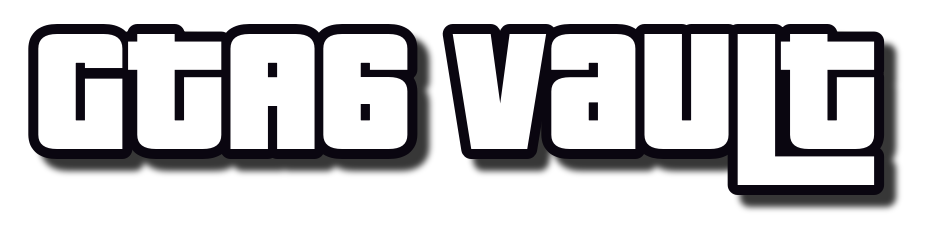
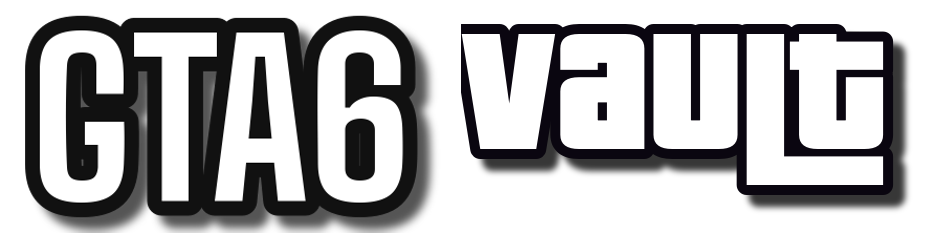
GTA6 vault: step-by-step copy, alert step, more legible GTA6 title

diff --git a/src/components/hot-vault-card.tsx b/src/components/hot-vault-card.tsx
@@ -42,7 +42,7 @@ export function HotVaultCard({ vault, owned, ownedLink, hasPosition, depositDisa
   const total = buys != null && sells != null ? buys + sells : null;
   const buyPct = total ? Math.round((buys! / total) * 100) : null;
   const ch = s.data?.change24h ?? null;
-  const steps = [["💵", "Depositas"], ["🌱", "Cosechas comisiones"], ["📲", "Rebalanceas con 1 toque"]] as const;
+  const steps = [["💵", "Depositas"], ["📲", "Alerta al móvil"], ["🎯", "Rebalanceas con 1 toque"]] as const;
   return <article className="hot-ring rounded-2xl p-[2px] shadow-[var(--shadow-hot)] md:col-span-2">
     <div className="relative isolate flex h-full flex-col overflow-hidden rounded-[calc(1rem-2px)] bg-[image:var(--gradient-hot-surface)] p-4 text-hot-foreground sm:p-5">
       <div className="relative -mx-4 -mt-4 flex min-h-32 flex-col justify-between bg-[image:var(--gradient-hot)] p-4 sm:-mx-5 sm:-mt-5 sm:min-h-36 sm:p-5">
@@ -51,12 +51,12 @@ export function HotVaultCard({ vault, owned, ownedLink, hasPosition, depositDisa
           <span className="rounded-full bg-hot-surface px-3 py-1 text-xs font-black uppercase tracking-wide text-hot-foreground">🎰 {t("Sé la casa")}</span>
           <span className="flex items-center gap-1.5 rounded-full bg-hot-surface/70 px-2.5 py-1 text-[11px] font-bold uppercase"><span className="h-1.5 w-1.5 animate-pulse rounded-full bg-hot motion-reduce:animate-none" />{t("En vivo")}</span>
         </div>
-        <h3 className="relative mt-5 flex items-center gap-2"><img src={lang === "en" ? titleEn : titleEs} alt={t(vault.name)} width={lang === "en" ? 926 : 1059} height={lang === "en" ? 233 : 228} className="h-10 w-auto max-w-[78%] -rotate-2 sm:h-14" /></h3>
+        <h3 className="relative mt-5 flex items-center gap-2"><img src={lang === "en" ? titleEn : titleEs} alt={t(vault.name)} width={lang === "en" ? 935 : 1074} height={lang === "en" ? 233 : 228} className="h-10 w-auto max-w-[78%] -rotate-2 sm:h-14" /></h3>
       </div>
       <div className="mt-4 flex flex-wrap items-end justify-between gap-3">
         <div className="min-w-0">
           <p className="text-xs font-semibold text-hot-muted">{vault.pair}</p>
-          <p className="mt-1 max-w-sm text-sm font-semibold">{t("Cada intercambio de GTA6 deja comisión. Tú cobras como la casa.")}</p>
+          <p className="mt-1 max-w-sm text-sm font-semibold">{t("Deposita, recibe la alerta en Telegram y rebalancea con 1 botón para mantener tu capital concentrado donde más comisiones se cobran.")}</p>
         </div>
         <div className="text-right">
           <p key={apr ?? "x"} className="animate-count-pop bg-[image:var(--gradient-hot)] bg-clip-text font-display text-5xl font-black leading-none text-transparent tabular-nums">{apr == null ? "—" : `${apr.toLocaleString("es-MX", { maximumFractionDigits: 0 })}%`}</p>

diff --git a/src/i18n/en/range-vaults.ts b/src/i18n/en/range-vaults.ts
@@ -6,7 +6,8 @@ export const rangeVaults: Record<string, string> = {
   "Depositas": "You deposit",
   "Cosechas comisiones": "You harvest fees",
   "Rebalanceas con 1 toque": "Rebalance in 1 tap",
-  "Cada intercambio de GTA6 deja comisión. Tú cobras como la casa.": "Every GTA6 trade leaves a fee. You collect like the house.",
+  "Deposita, recibe la alerta en Telegram y rebalancea con 1 botón para mantener tu capital concentrado donde más comisiones se cobran.": "Deposit, get the Telegram alert and rebalance with 1 button to keep your money concentrated where most fees are earned.",
+  "Alerta al móvil": "Alert on your phone",
   "Poseedores": "Holders",
   "No apuestas contra nadie: cobras comisiones de los intercambios. Tu saldo sube y baja con el precio de GTA6. Sin vínculo con Rockstar Games.": "You don't bet against anyone: you collect trading fees. Your balance moves up and down with the GTA6 price. Not affiliated with Rockstar Games.",
   "⚡ Alto Octanaje · Rango Activo": "⚡ High Octane · Active Range",
